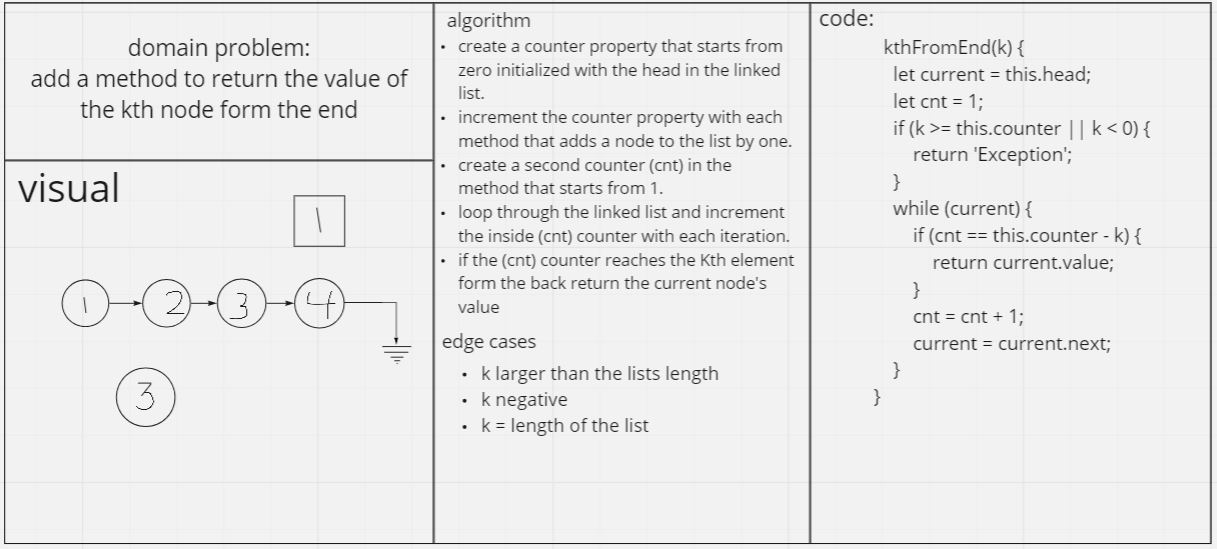
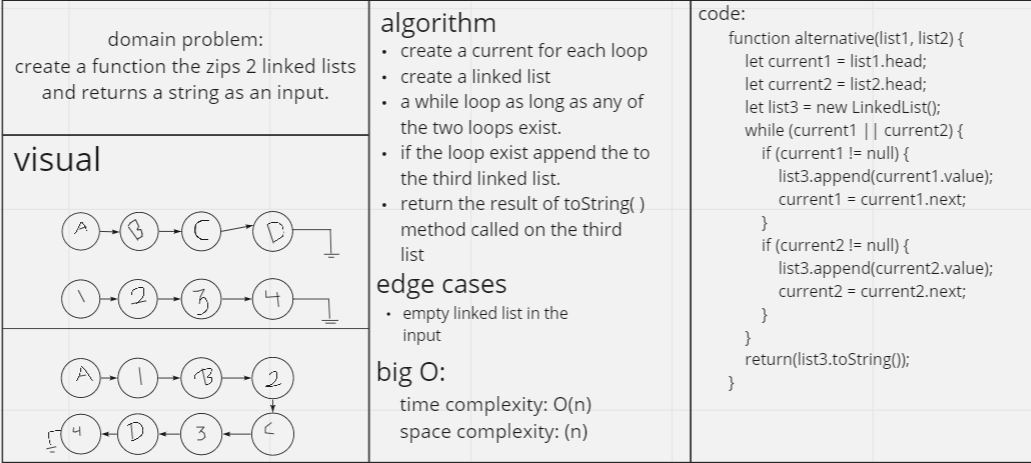
linked lists zip

diff --git a/javascript/linked-list/__tests__/linked-list.test.js b/javascript/linked-list/__tests__/linked-list.test.js
@@ -1,11 +1,12 @@
 'use strict';
 
+const alternative = require('../index').alternative;
 // Require our linked list implementation
-const LinkedLilst = require('../index');
+const LinkedList = require('../index').LinkedList;
 
 describe('checks if it includes a value',()=>{
   test('insert',()=>{
-    let ll = new LinkedLilst();
+    let ll = new LinkedList();
     expect(ll.head).toBe(null);
     ll.insert('a');
     expect(ll.head.value).toBe('a');
@@ -13,7 +14,7 @@ describe('checks if it includes a value',()=>{
     expect(ll.head.value).toBe('d');
   })
   test('includes',()=>{
-    let ll = new LinkedLilst();
+    let ll = new LinkedList();
     ll.insert('a');
     ll.insert('d');
     ll.insert('');
@@ -23,7 +24,7 @@ describe('checks if it includes a value',()=>{
     expect(ll.includes('')).toBe(true);
   })
   test('read all node values',()=>{
-    let ll = new LinkedLilst();
+    let ll = new LinkedList();
     ll.insert('a');
     ll.insert(false);
     ll.insert('c');
@@ -31,13 +32,13 @@ describe('checks if it includes a value',()=>{
     expect(ll.toString()).toBe('{d} -> {c} -> {false} -> {a}');
   })
   test(' add a node to the end ',()=>{
-    const ll = new LinkedLilst();
+    const ll = new LinkedList();
     ll.append('first');
     ll.append('sec');
     expect(ll.head.next.value).toBe('sec');
   });
   test(' add multiple nodes ',()=>{
-    const ll = new LinkedLilst();
+    const ll = new LinkedList();
     ll.append('first');
     ll.append('sec');
     ll.append('thir');
@@ -45,7 +46,7 @@ describe('checks if it includes a value',()=>{
     expect(ll.head.next.next.next.value).toBe('fourth');
   });
   test('insert in the middle',()=>{
-    const ll = new LinkedLilst();
+    const ll = new LinkedList();
     ll.append('first');
     ll.append('sec');
     ll.append('thir');
@@ -55,7 +56,7 @@ describe('checks if it includes a value',()=>{
 
   })
   test('insert before first',()=>{
-    const ll = new LinkedLilst();
+    const ll = new LinkedList();
     ll.append('first');
     ll.append('sec');
     ll.append('thir');
@@ -65,7 +66,7 @@ describe('checks if it includes a value',()=>{
 
   })
   test('insert after a value',()=>{
-    const ll = new LinkedLilst();
+    const ll = new LinkedList();
     ll.append('first');
     ll.append('sec');
     ll.append('thir');
@@ -75,7 +76,7 @@ describe('checks if it includes a value',()=>{
 
   })
   test('insert after last',()=>{
-    const ll = new LinkedLilst();
+    const ll = new LinkedList();
     ll.append('first');
     ll.append('sec');
     ll.append('thir');
@@ -86,7 +87,7 @@ describe('checks if it includes a value',()=>{
   })
 
     it('k is greater than the length ',()=>{
-      const ll = new LinkedLilst();
+      const ll = new LinkedList();
       ll.append('first');
       ll.append('sec');
       ll.append('thir');
@@ -94,7 +95,7 @@ describe('checks if it includes a value',()=>{
       expect(ll.kthFromEnd(15)).toBe('Exception');
     });
     it('k and the length of the list are the same',()=>{
-      const ll = new LinkedLilst();
+      const ll = new LinkedList();
       ll.append('first');
       ll.append('sec');
       ll.append('thir');
@@ -102,7 +103,7 @@ describe('checks if it includes a value',()=>{
       expect(ll.kthFromEnd(4)).toBe('Exception');
     });
     it('k is not a positive integer',()=>{
-      const ll = new LinkedLilst();
+      const ll = new LinkedList();
       ll.append('first');
       ll.append('sec');
       ll.append('thir');
@@ -110,12 +111,12 @@ describe('checks if it includes a value',()=>{
       expect(ll.kthFromEnd(-4)).toBe('Exception');
     });
     it('linked list of size one',()=>{
-      const ll = new LinkedLilst();
+      const ll = new LinkedList();
       ll.append('first');
       expect(ll.kthFromEnd(0)).toBe('first');
     });
     it('happy path',()=>{
-      const ll = new LinkedLilst();
+      const ll = new LinkedList();
       ll.append('first');
       ll.append('sec');
       ll.append('thir');
@@ -123,4 +124,15 @@ describe('checks if it includes a value',()=>{
       expect(ll.kthFromEnd(2)).toBe('sec');
     });
 
+})
+describe('linked list zip',()=>{
+  const list1 = new LinkedList();
+  const list2 = new LinkedList();
+  for(let i=0;i<5;i++){
+    list1.append(i);
+  }
+  for(let i=0;i<5;i++){
+    list1.append(i+10);
+  }
+  expect(alternative(list1,list2)).toBe('{0} -> {1} -> {2} -> {3} -> {4} -> {10} -> {11} -> {12} -> {13} -> {14}');
 })

diff --git a/code-challenges/challenges-07.test.js b/code-challenges/challenges-07.test.js
@@ -142,12 +142,16 @@ const gruffaloCrumble = {
 const listFoods = (recipe) => {
   let result = [];
   // Solution code here...
-  recipe.ingredients.map((element) => {
-    for (let i = 0; i <= element.length; i++) {
-      if (element.charAt(i) == " " && i > 2) {
-        result.push(element.slice(i));
-      }
-    }
+  recipe.ingredients.map((element)=>{
+    let counter = 0;
+   for(let i=0;i<=element.length;i++){
+     if(element.charAt(i)==" "){
+       counter=counter+ 1;
+       if(counter==2){
+       result.push(element.slice(i+1));
+       }
+     }
+   }
   })
   return result;
 };

diff --git a/javascript/linked-list/index.js b/javascript/linked-list/index.js
@@ -138,4 +138,20 @@ class LinkedList {
 
 }
 
-module.exports = LinkedList;
+function alternative(list1, list2) {
+    let current1 = list1.head;
+    let current2 = list2.head;
+    let list3 = new LinkedList();
+    while (current1 || current2) {
+        if (current1 != null) {
+            list3.append(current1.value);
+            current1 = current1.next;
+        }
+        if (current2 != null) {
+            list3.append(current2.value);
+            current2 = current2.next;
+        }
+    }
+    return(list3.toString());
+}
+module.exports = {LinkedList,alternative};

diff --git a/javascript/linked-list/linked-list.md b/javascript/linked-list/linked-list.md
@@ -5,12 +5,12 @@ bigO is between O(1) and O(n)
 
 ## Challenge
 <!-- Description of the challenge -->
-create a method to find the kth node from the end.  
+create a method to zip 2 linked list and return the values in a string.  
 ## Approach & Efficiency
 <!-- What approach did you take? Why? What is the Big O space/time for this approach? -->
 while loop to traverse the linked list. as for why? because we dont know the length of the list.
 big O of time is O(n);
-big O of space is O(1);
+big O of space is O(n);
 
 ## API
 <!-- Description of each method publicly available to your Linked List -->
@@ -20,7 +20,7 @@ toString(): lists out all the node values as strings.
 insertBefore(): takes a new value and a value to insert before.
 isnertAfter(): takes a new value and a value to insert after.
 append(): takes a value to insert at the end of the linked list.  
-kthFromEnd(): finds the kth element from the end.
+kthFromEnd(): finds the kth element from the end.  
 ## whiteboard Process  
 ![whiteboard](./whiteboard.JPG);
 
